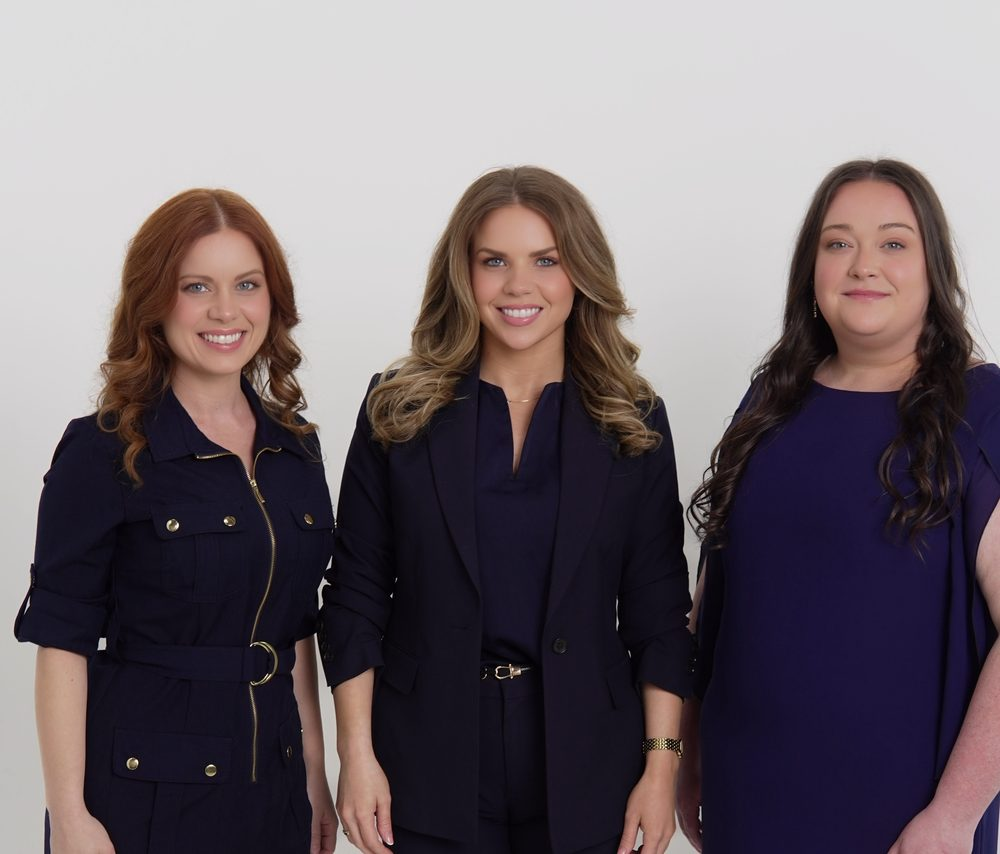
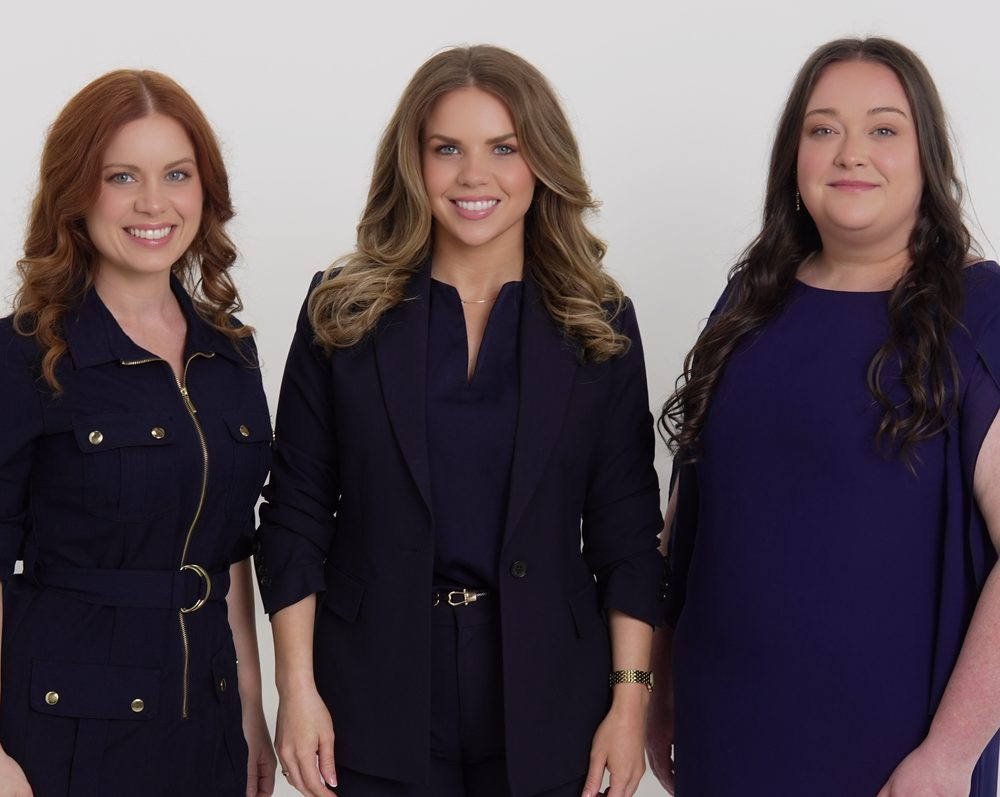
Rebalance team photo crop: trim top whitespace and left margin

diff --git a/about.html b/about.html
@@ -8,7 +8,7 @@
 <link rel="preconnect" href="https://fonts.googleapis.com">
 <link rel="preconnect" href="https://fonts.gstatic.com" crossorigin>
 <link href="https://fonts.googleapis.com/css2?family=Fraunces:ital,opsz,wght@0,9..144,400;0,9..144,500;0,9..144,600;1,9..144,400;1,9..144,500&family=Inter:wght@400;500;600&display=swap" rel="stylesheet">
-<link rel="stylesheet" href="style.css?v=1784155821">
+<link rel="stylesheet" href="style.css?v=1784155968">
 </head>
 <body>
 
@@ -42,7 +42,7 @@
       <p class="reveal" style="max-width:60ch;margin-top:24px;color:rgba(21,27,43,.75)">Our team combines day-to-day accounting, technical expertise, and controller-level oversight to deliver accurate financial reporting, scalable processes, and the confidence to make informed business decisions.</p>
     </div>
     <figure class="team-photo team-photo-side reveal">
-      <img src="assets/team.jpg" alt="The Sandhill HQ team of three accounting professionals" width="1000" height="854" loading="lazy">
+      <img src="assets/team.jpg" alt="The Sandhill HQ team of three accounting professionals" width="1000" height="797" loading="lazy">
       <figcaption>The Sandhill HQ team &mdash; Star, Founder &amp; Outsourced Controller (center).</figcaption>
     </figure>
   </div>

diff --git a/404.html b/404.html
@@ -8,7 +8,7 @@
 <link rel="preconnect" href="https://fonts.googleapis.com">
 <link rel="preconnect" href="https://fonts.gstatic.com" crossorigin>
 <link href="https://fonts.googleapis.com/css2?family=Fraunces:ital,opsz,wght@0,9..144,400;0,9..144,500;0,9..144,600;1,9..144,400;1,9..144,500&family=Inter:wght@400;500;600&display=swap" rel="stylesheet">
-<link rel="stylesheet" href="style.css?v=1784155821">
+<link rel="stylesheet" href="style.css?v=1784155968">
 </head>
 <body>
 

diff --git a/blog.html b/blog.html
@@ -8,7 +8,7 @@
 <link rel="preconnect" href="https://fonts.googleapis.com">
 <link rel="preconnect" href="https://fonts.gstatic.com" crossorigin>
 <link href="https://fonts.googleapis.com/css2?family=Fraunces:ital,opsz,wght@0,9..144,400;0,9..144,500;0,9..144,600;1,9..144,400;1,9..144,500&family=Inter:wght@400;500;600&display=swap" rel="stylesheet">
-<link rel="stylesheet" href="style.css?v=1784155821">
+<link rel="stylesheet" href="style.css?v=1784155968">
 </head>
 <body>
 

diff --git a/blog/asc-606-saas-revenue-recognition.html b/blog/asc-606-saas-revenue-recognition.html
@@ -8,7 +8,7 @@
 <link rel="preconnect" href="https://fonts.googleapis.com">
 <link rel="preconnect" href="https://fonts.gstatic.com" crossorigin>
 <link href="https://fonts.googleapis.com/css2?family=Fraunces:ital,opsz,wght@0,9..144,400;0,9..144,500;0,9..144,600;1,9..144,400;1,9..144,500&family=Inter:wght@400;500;600&display=swap" rel="stylesheet">
-<link rel="stylesheet" href="../style.css?v=1784155821">
+<link rel="stylesheet" href="../style.css?v=1784155968">
 </head>
 <body>
 

diff --git a/blog/cash-vs-accrual-accounting.html b/blog/cash-vs-accrual-accounting.html
@@ -8,7 +8,7 @@
 <link rel="preconnect" href="https://fonts.googleapis.com">
 <link rel="preconnect" href="https://fonts.gstatic.com" crossorigin>
 <link href="https://fonts.googleapis.com/css2?family=Fraunces:ital,opsz,wght@0,9..144,400;0,9..144,500;0,9..144,600;1,9..144,400;1,9..144,500&family=Inter:wght@400;500;600&display=swap" rel="stylesheet">
-<link rel="stylesheet" href="../style.css?v=1784155821">
+<link rel="stylesheet" href="../style.css?v=1784155968">
 </head>
 <body>
 

diff --git a/contact.html b/contact.html
@@ -8,7 +8,7 @@
 <link rel="preconnect" href="https://fonts.googleapis.com">
 <link rel="preconnect" href="https://fonts.gstatic.com" crossorigin>
 <link href="https://fonts.googleapis.com/css2?family=Fraunces:ital,opsz,wght@0,9..144,400;0,9..144,500;0,9..144,600;1,9..144,400;1,9..144,500&family=Inter:wght@400;500;600&display=swap" rel="stylesheet">
-<link rel="stylesheet" href="style.css?v=1784155821">
+<link rel="stylesheet" href="style.css?v=1784155968">
 </head>
 <body>
 

diff --git a/index.html b/index.html
@@ -8,7 +8,7 @@
 <link rel="preconnect" href="https://fonts.googleapis.com">
 <link rel="preconnect" href="https://fonts.gstatic.com" crossorigin>
 <link href="https://fonts.googleapis.com/css2?family=Fraunces:ital,opsz,wght@0,9..144,400;0,9..144,500;0,9..144,600;1,9..144,400;1,9..144,500&family=Inter:wght@400;500;600&display=swap" rel="stylesheet">
-<link rel="stylesheet" href="style.css?v=1784155821">
+<link rel="stylesheet" href="style.css?v=1784155968">
 </head>
 <body>
 

diff --git a/legal.html b/legal.html
@@ -8,7 +8,7 @@
 <link rel="preconnect" href="https://fonts.googleapis.com">
 <link rel="preconnect" href="https://fonts.gstatic.com" crossorigin>
 <link href="https://fonts.googleapis.com/css2?family=Fraunces:ital,opsz,wght@0,9..144,400;0,9..144,500;0,9..144,600;1,9..144,400;1,9..144,500&family=Inter:wght@400;500;600&display=swap" rel="stylesheet">
-<link rel="stylesheet" href="style.css?v=1784155821">
+<link rel="stylesheet" href="style.css?v=1784155968">
 </head>
 <body>
 

diff --git a/services.html b/services.html
@@ -8,7 +8,7 @@
 <link rel="preconnect" href="https://fonts.googleapis.com">
 <link rel="preconnect" href="https://fonts.gstatic.com" crossorigin>
 <link href="https://fonts.googleapis.com/css2?family=Fraunces:ital,opsz,wght@0,9..144,400;0,9..144,500;0,9..144,600;1,9..144,400;1,9..144,500&family=Inter:wght@400;500;600&display=swap" rel="stylesheet">
-<link rel="stylesheet" href="style.css?v=1784155821">
+<link rel="stylesheet" href="style.css?v=1784155968">
 </head>
 <body>
 

diff --git a/who-we-help.html b/who-we-help.html
@@ -8,7 +8,7 @@
 <link rel="preconnect" href="https://fonts.googleapis.com">
 <link rel="preconnect" href="https://fonts.gstatic.com" crossorigin>
 <link href="https://fonts.googleapis.com/css2?family=Fraunces:ital,opsz,wght@0,9..144,400;0,9..144,500;0,9..144,600;1,9..144,400;1,9..144,500&family=Inter:wght@400;500;600&display=swap" rel="stylesheet">
-<link rel="stylesheet" href="style.css?v=1784155821">
+<link rel="stylesheet" href="style.css?v=1784155968">
 </head>
 <body>
 

diff --git a/generate.py b/generate.py
@@ -430,7 +430,7 @@ pages["about.html"] = dict(
       <p class="reveal" style="max-width:60ch;margin-top:24px;color:rgba(21,27,43,.75)">Our team combines day-to-day accounting, technical expertise, and controller-level oversight to deliver accurate financial reporting, scalable processes, and the confidence to make informed business decisions.</p>
     </div>
     <figure class="team-photo team-photo-side reveal">
-      <img src="assets/team.jpg" alt="The Sandhill HQ team of three accounting professionals" width="1000" height="854" loading="lazy">
+      <img src="assets/team.jpg" alt="The Sandhill HQ team of three accounting professionals" width="1000" height="797" loading="lazy">
       <figcaption>The Sandhill HQ team &mdash; Star, Founder &amp; Outsourced Controller (center).</figcaption>
     </figure>
   </div>